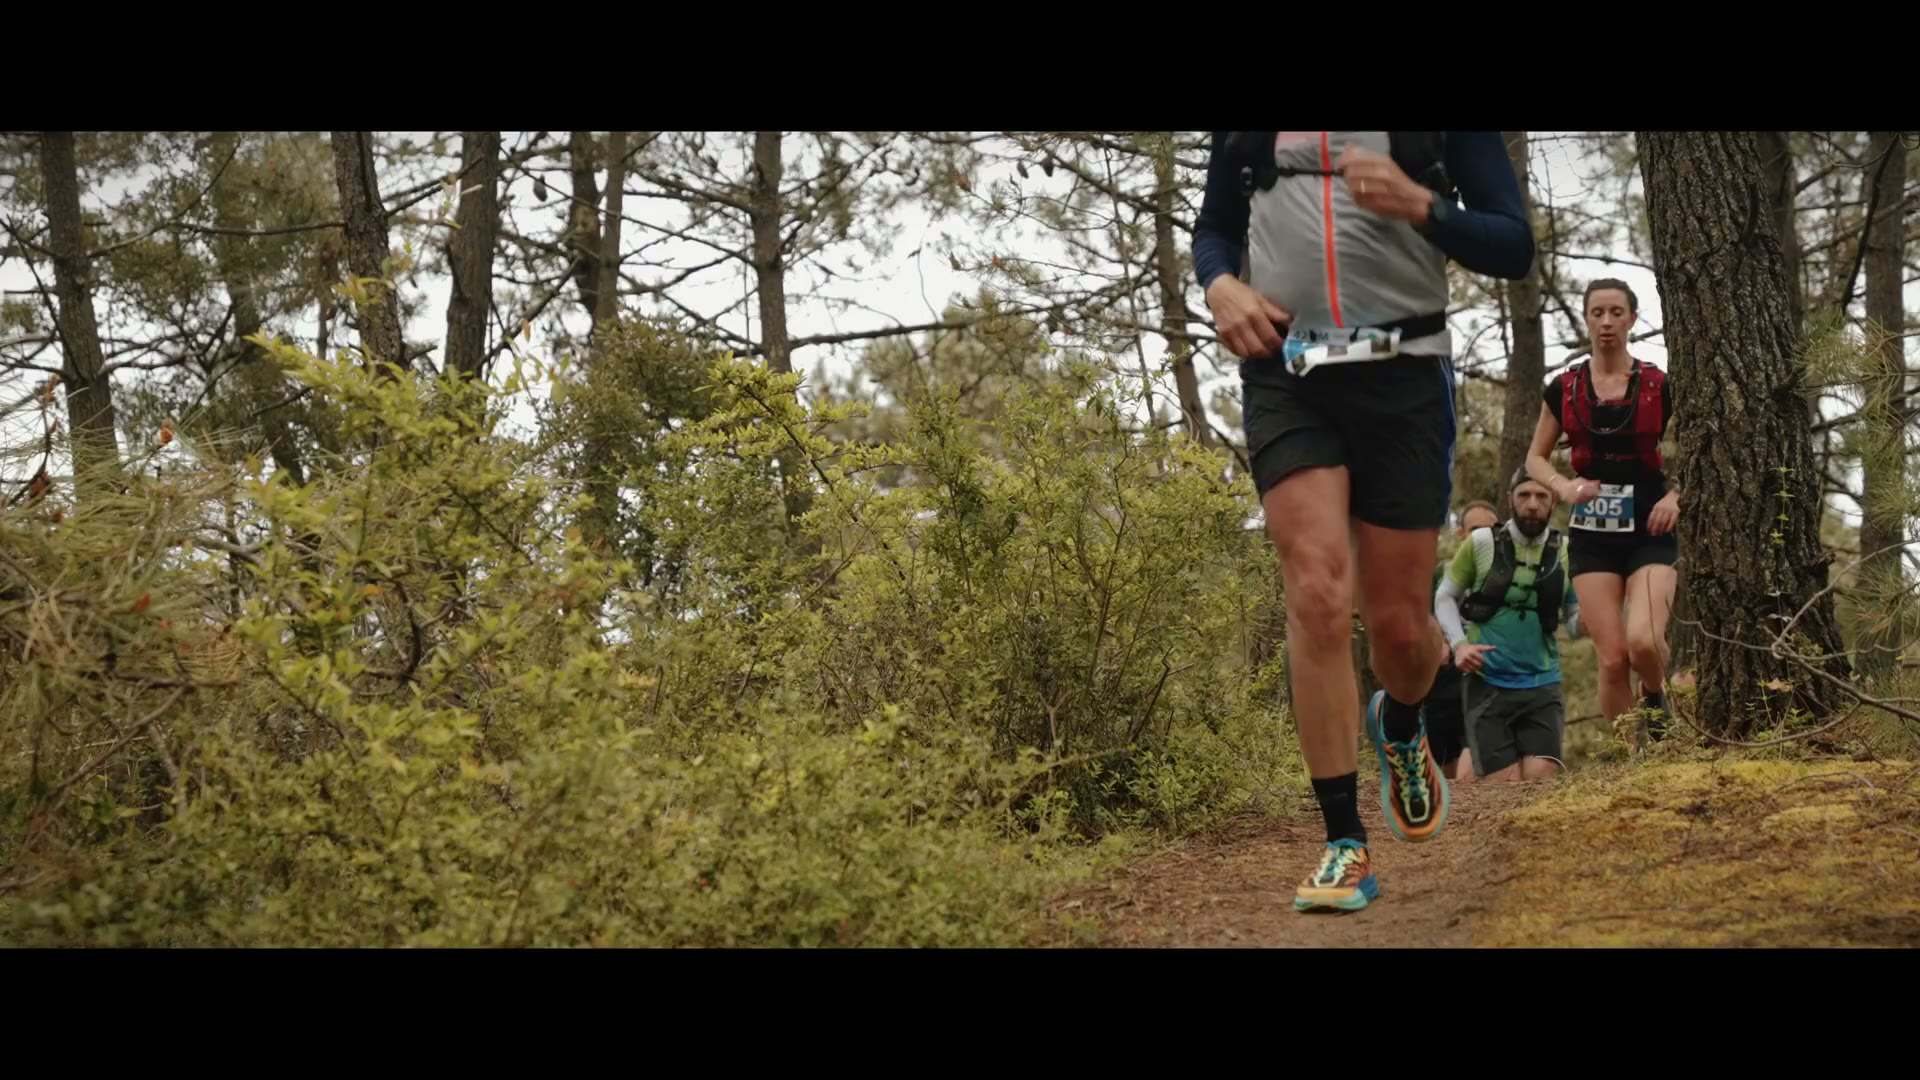
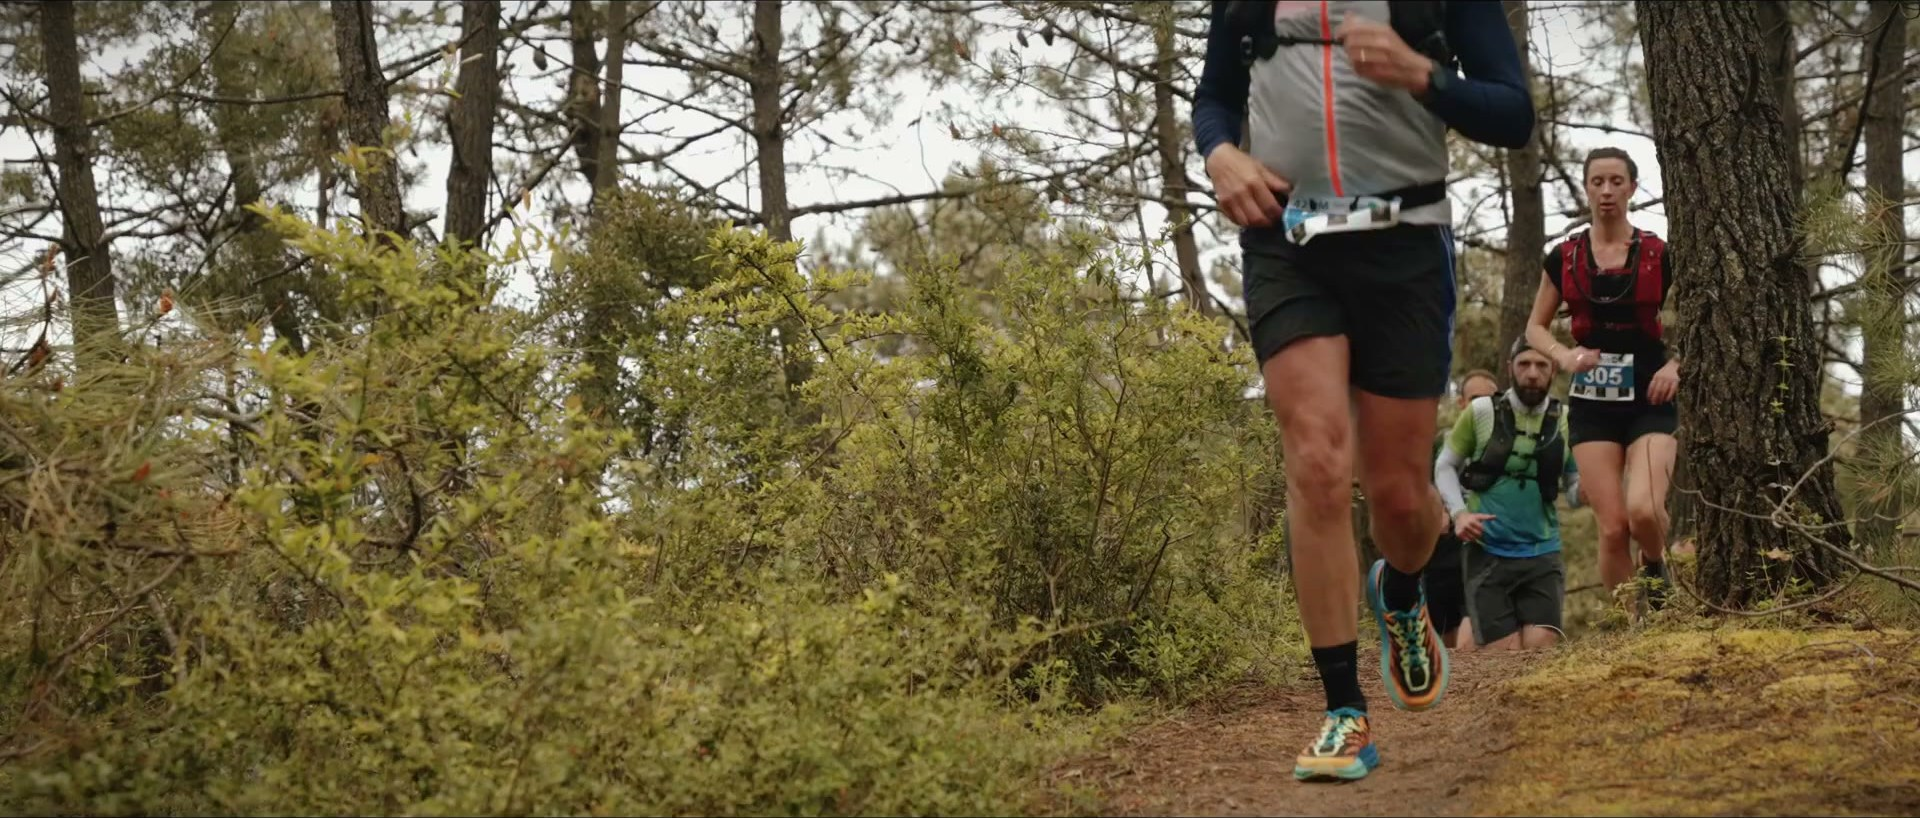
Accueil : les 6 projets de la sélection tiennent dans un écran ; couverture Raidlight sans bandes noires

diff --git a/src/styles/global.css b/src/styles/global.css
@@ -267,6 +267,20 @@ main { display: block; min-height: 60vh; }
 :root[data-mode='d'] .featured { grid-template-columns: repeat(3, minmax(0, 1fr)); gap: 28px; }
 :root[data-mode='d'] .featured .card:first-child .card-media { flex: none; aspect-ratio: 4 / 3; min-height: 0; }
 :root[data-mode='d'] .featured .card:nth-child(3n+2) { margin-top: 48px; }
+/* Ordinateur : les 6 projets de la Sélection tiennent dans un seul écran, titre « Sélection » compris.
+   Hauteur d'image = (écran − en-tête − titre de section − 2 légendes − espaces) / 2, sans dépasser du 16:9. */
+@media (min-width: 1081px) {
+  .featured { --feat-h: calc((100dvh - var(--header-h) - 150px - 2 * 96px - clamp(14px, 1.6vw, 24px)) / 2); row-gap: clamp(14px, 1.6vw, 24px); margin-top: 20px; }
+  .featured .card .card-media, .featured .card:first-child .card-media, :root[data-mode='d'] .featured .card:first-child .card-media { flex: none; width: 100%; aspect-ratio: 16 / 9; min-height: 0; max-height: max(150px, var(--feat-h)); }
+  .featured .card .card-media img { object-fit: cover; }
+  .featured .card.is-portrait .card-media img { object-position: 50% 22%; } /* affiche verticale : cadrée sur le titre */
+  :root[data-mode='d'] .featured .card:nth-child(3n+2) { margin-top: 0; }
+  .featured .card-cap { margin-top: 10px; }
+  .featured .card-title { white-space: nowrap; overflow: hidden; text-overflow: ellipsis; min-width: 0; }
+  .featured .card-desc { white-space: nowrap; overflow: hidden; text-overflow: ellipsis; max-width: 100%; margin-top: 4px; }
+  .featured .card-tools { margin-top: 4px; }
+  .featured .kbar, :root[data-mode='d'] .featured .kbar { display: none; }
+}
 .home-more { display: flex; justify-content: center; margin-top: 44px; }
 
 /* ——— Cartes projet ——— */
